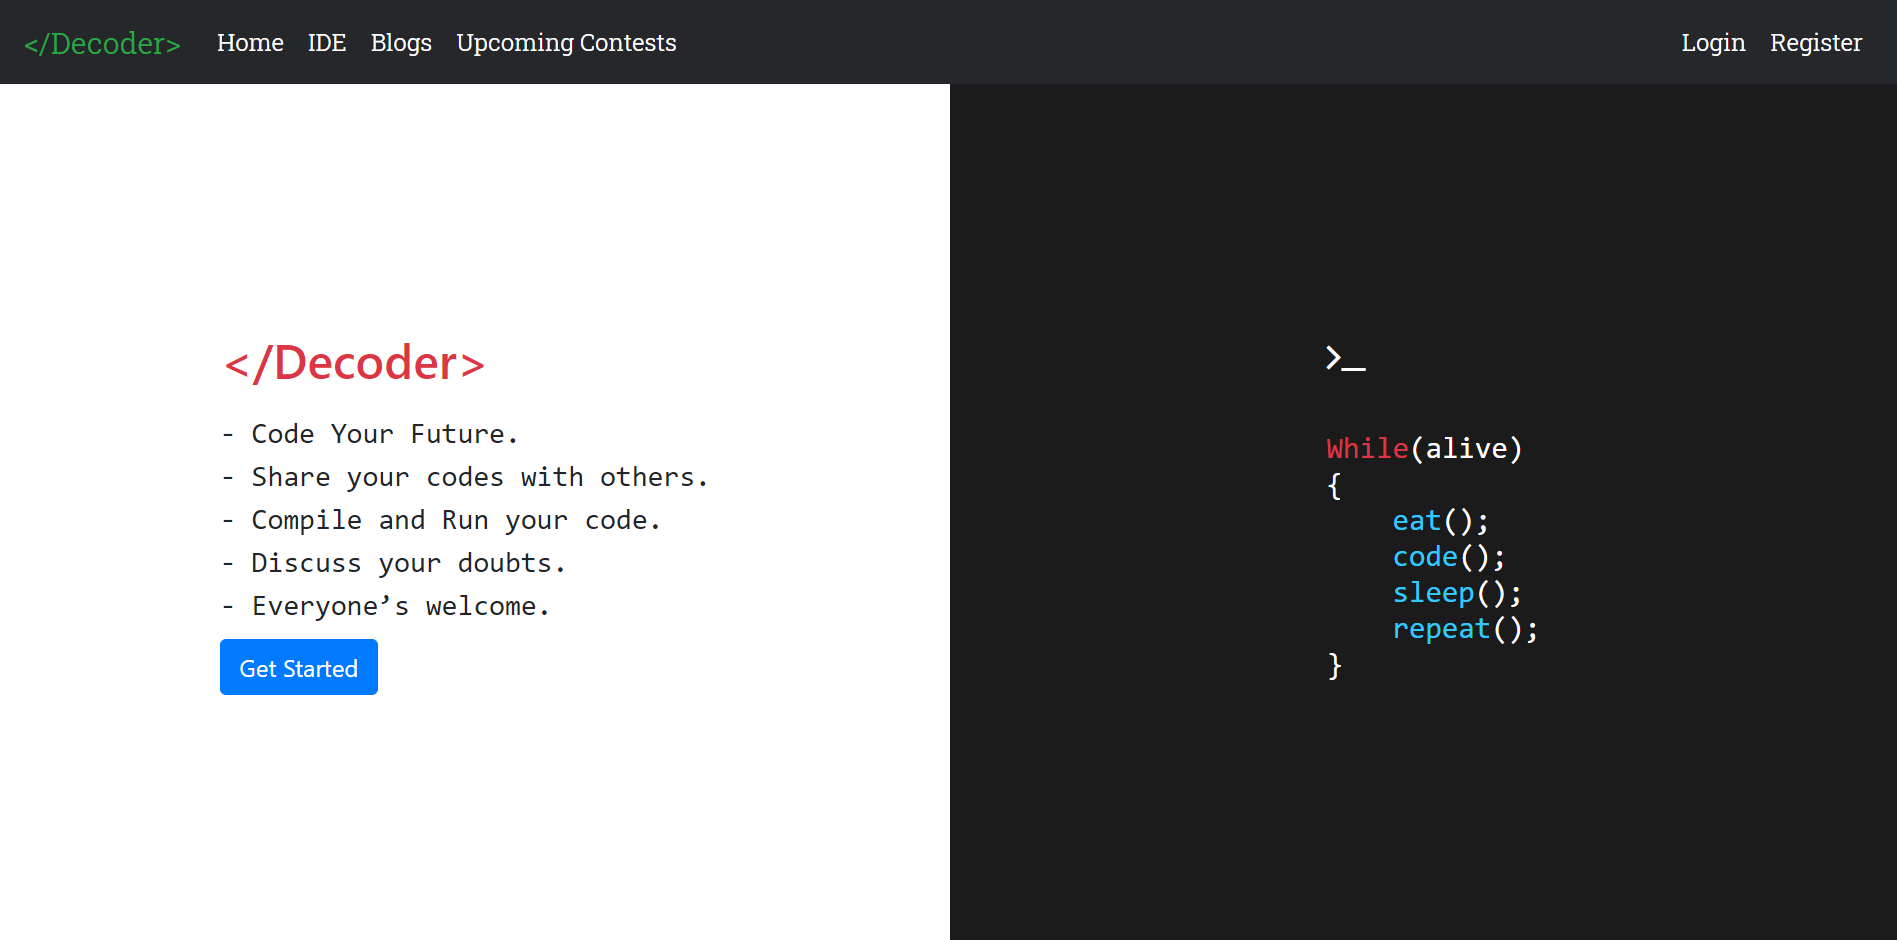
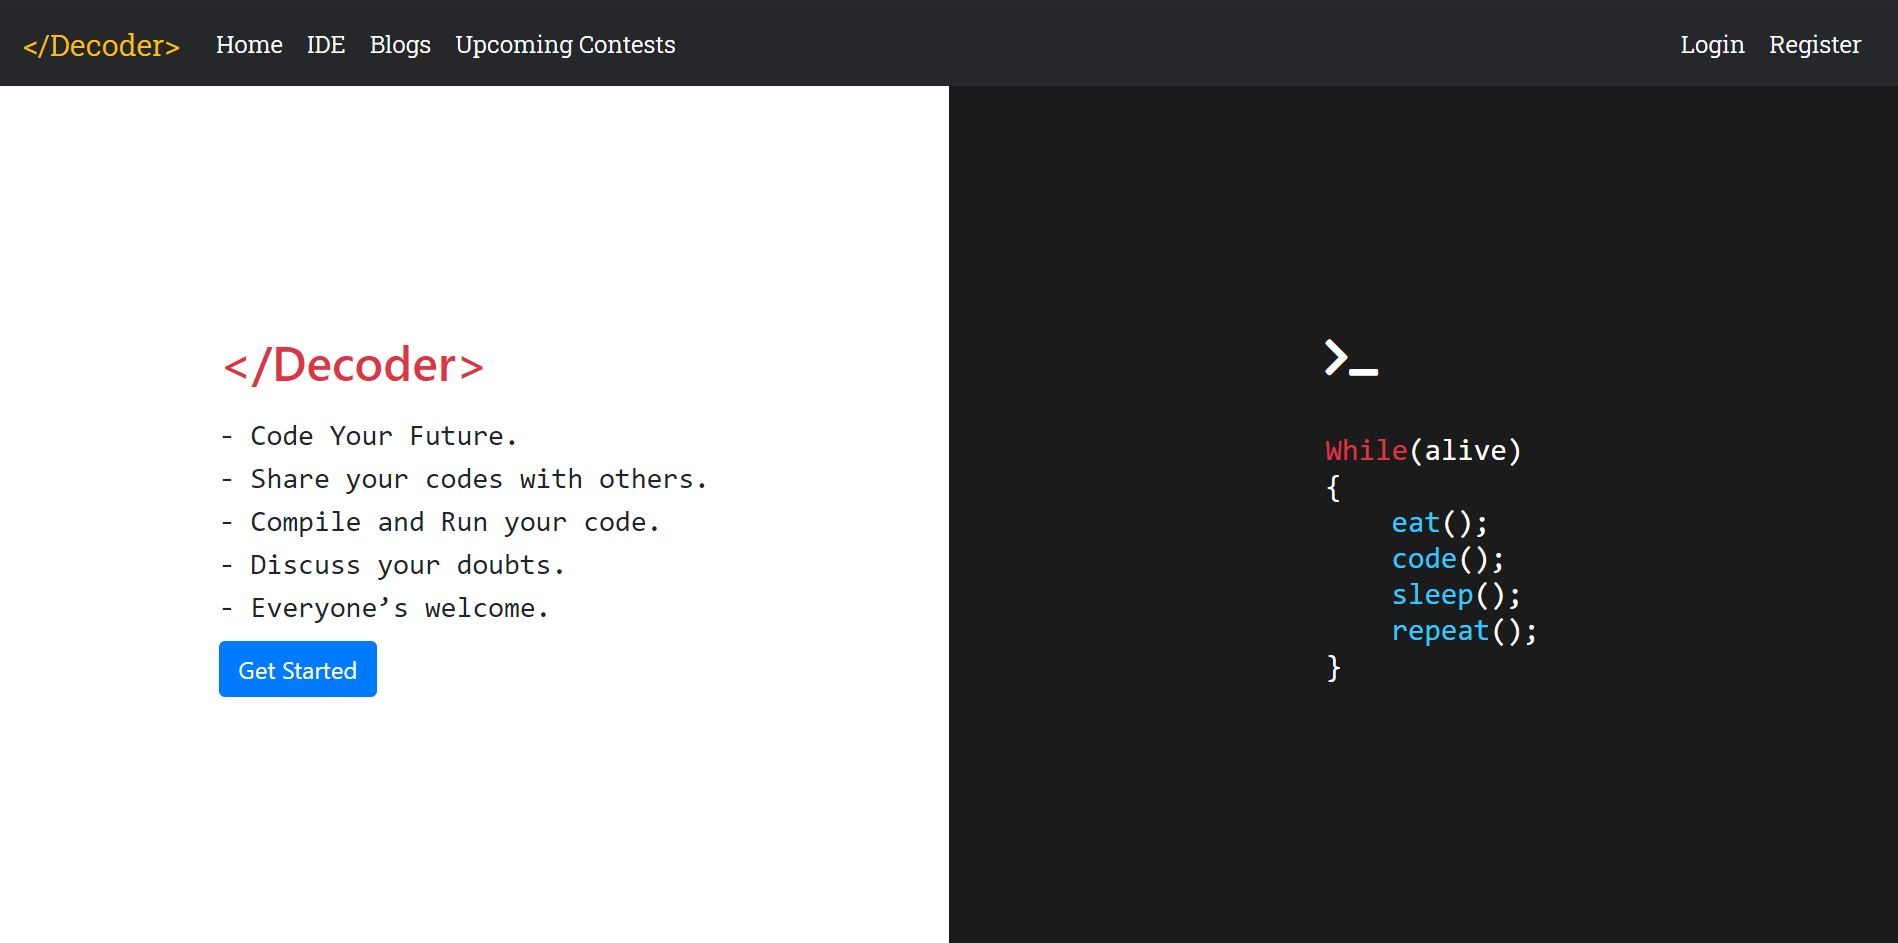
small changes.
screenshots added.
logo updated.
db file moved to config folder.

diff --git a/frontend/src/app/components/about/about.component.ts b/frontend/src/app/components/about/about.component.ts
@@ -12,6 +12,10 @@ export class AboutComponent implements OnInit {
     {
       name: "Dhruv Gheewala",
       info: "Some example text some example text. John Doe is an architect and engineer",
+      // info: [
+      //   "- Student at DDU, Nadiad",
+      //   "- Competitive coder",
+      // ],
       github: "https://github.com/DhruvGheewala",
       linkedin: "https://www.linkedin.com/in/dhruvgheewala/",
       instagram: "https://www.instagram.com/dhruvgheewala1320/",

diff --git a/backend/index.js b/backend/index.js
@@ -1,12 +1,13 @@
-require('dotenv').config()
+require('dotenv').config();
 const express = require('express');
 const bodyParser = require('body-parser');
 const cors = require('cors');
 
 const PORT = process.env.PORT;
-const mongoose = require('./db');
+const mongoose = require('./config/db');
 
 const app = express();
+
 app.use(cors());
 app.use(bodyParser.urlencoded({ extended: false }))
 app.use(bodyParser.json());

diff --git a/frontend/src/app/components/home/home.component.html b/frontend/src/app/components/home/home.component.html
@@ -5,7 +5,7 @@
                 <div class="h2 font-code text-danger">
                     {{title}}
                 </div>
-                <div class="font5 mt-3 description">
+                <div class="font-code mt-3 description">
                     - Code Your Future. <br>
                     - Share your codes with others. <br>
                     - Compile and Run your code. <br>

diff --git a/frontend/src/app/components/about/about.component.html b/frontend/src/app/components/about/about.component.html
@@ -7,6 +7,7 @@
                 </div>
                 <div class="mt-2">
                     <h4>{{user.name}}</h4>
+                    <!-- <div *ngFor="let info of user.info">{{info}}</div> -->
                     <p>{{user.info}}</p>
                     <div>
                         <a [href]="user.github" target="_blank">

diff --git a/TODO.md b/TODO.md
@@ -10,7 +10,6 @@
 # Backend
 - complete compile-run in backend
 
-
 # Flow
 ```
 3 database
